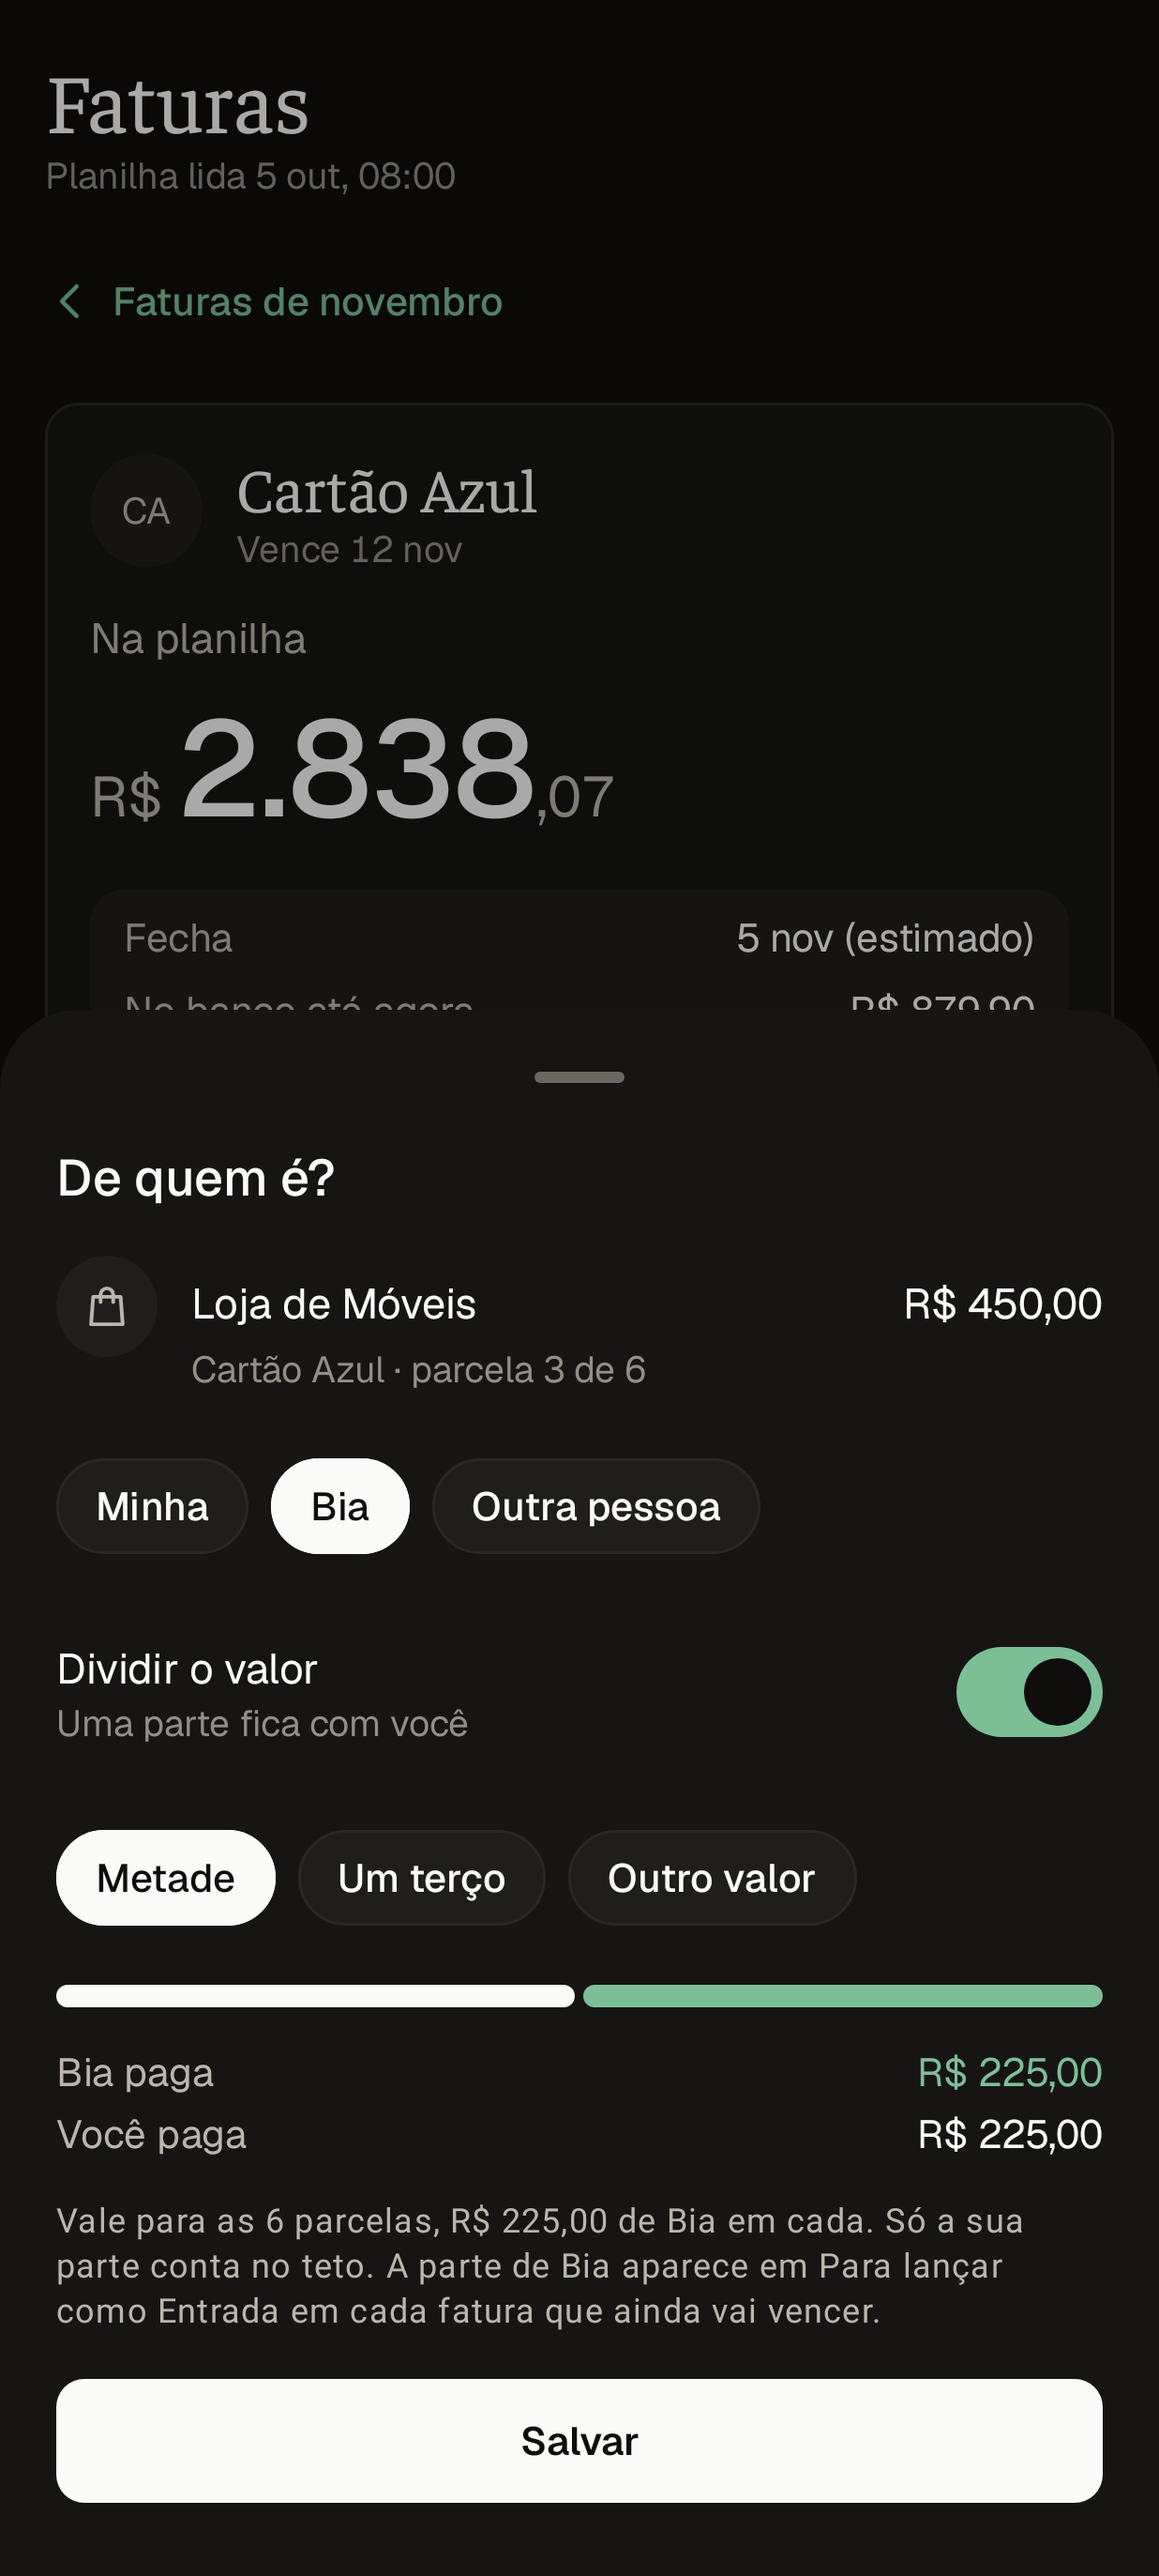
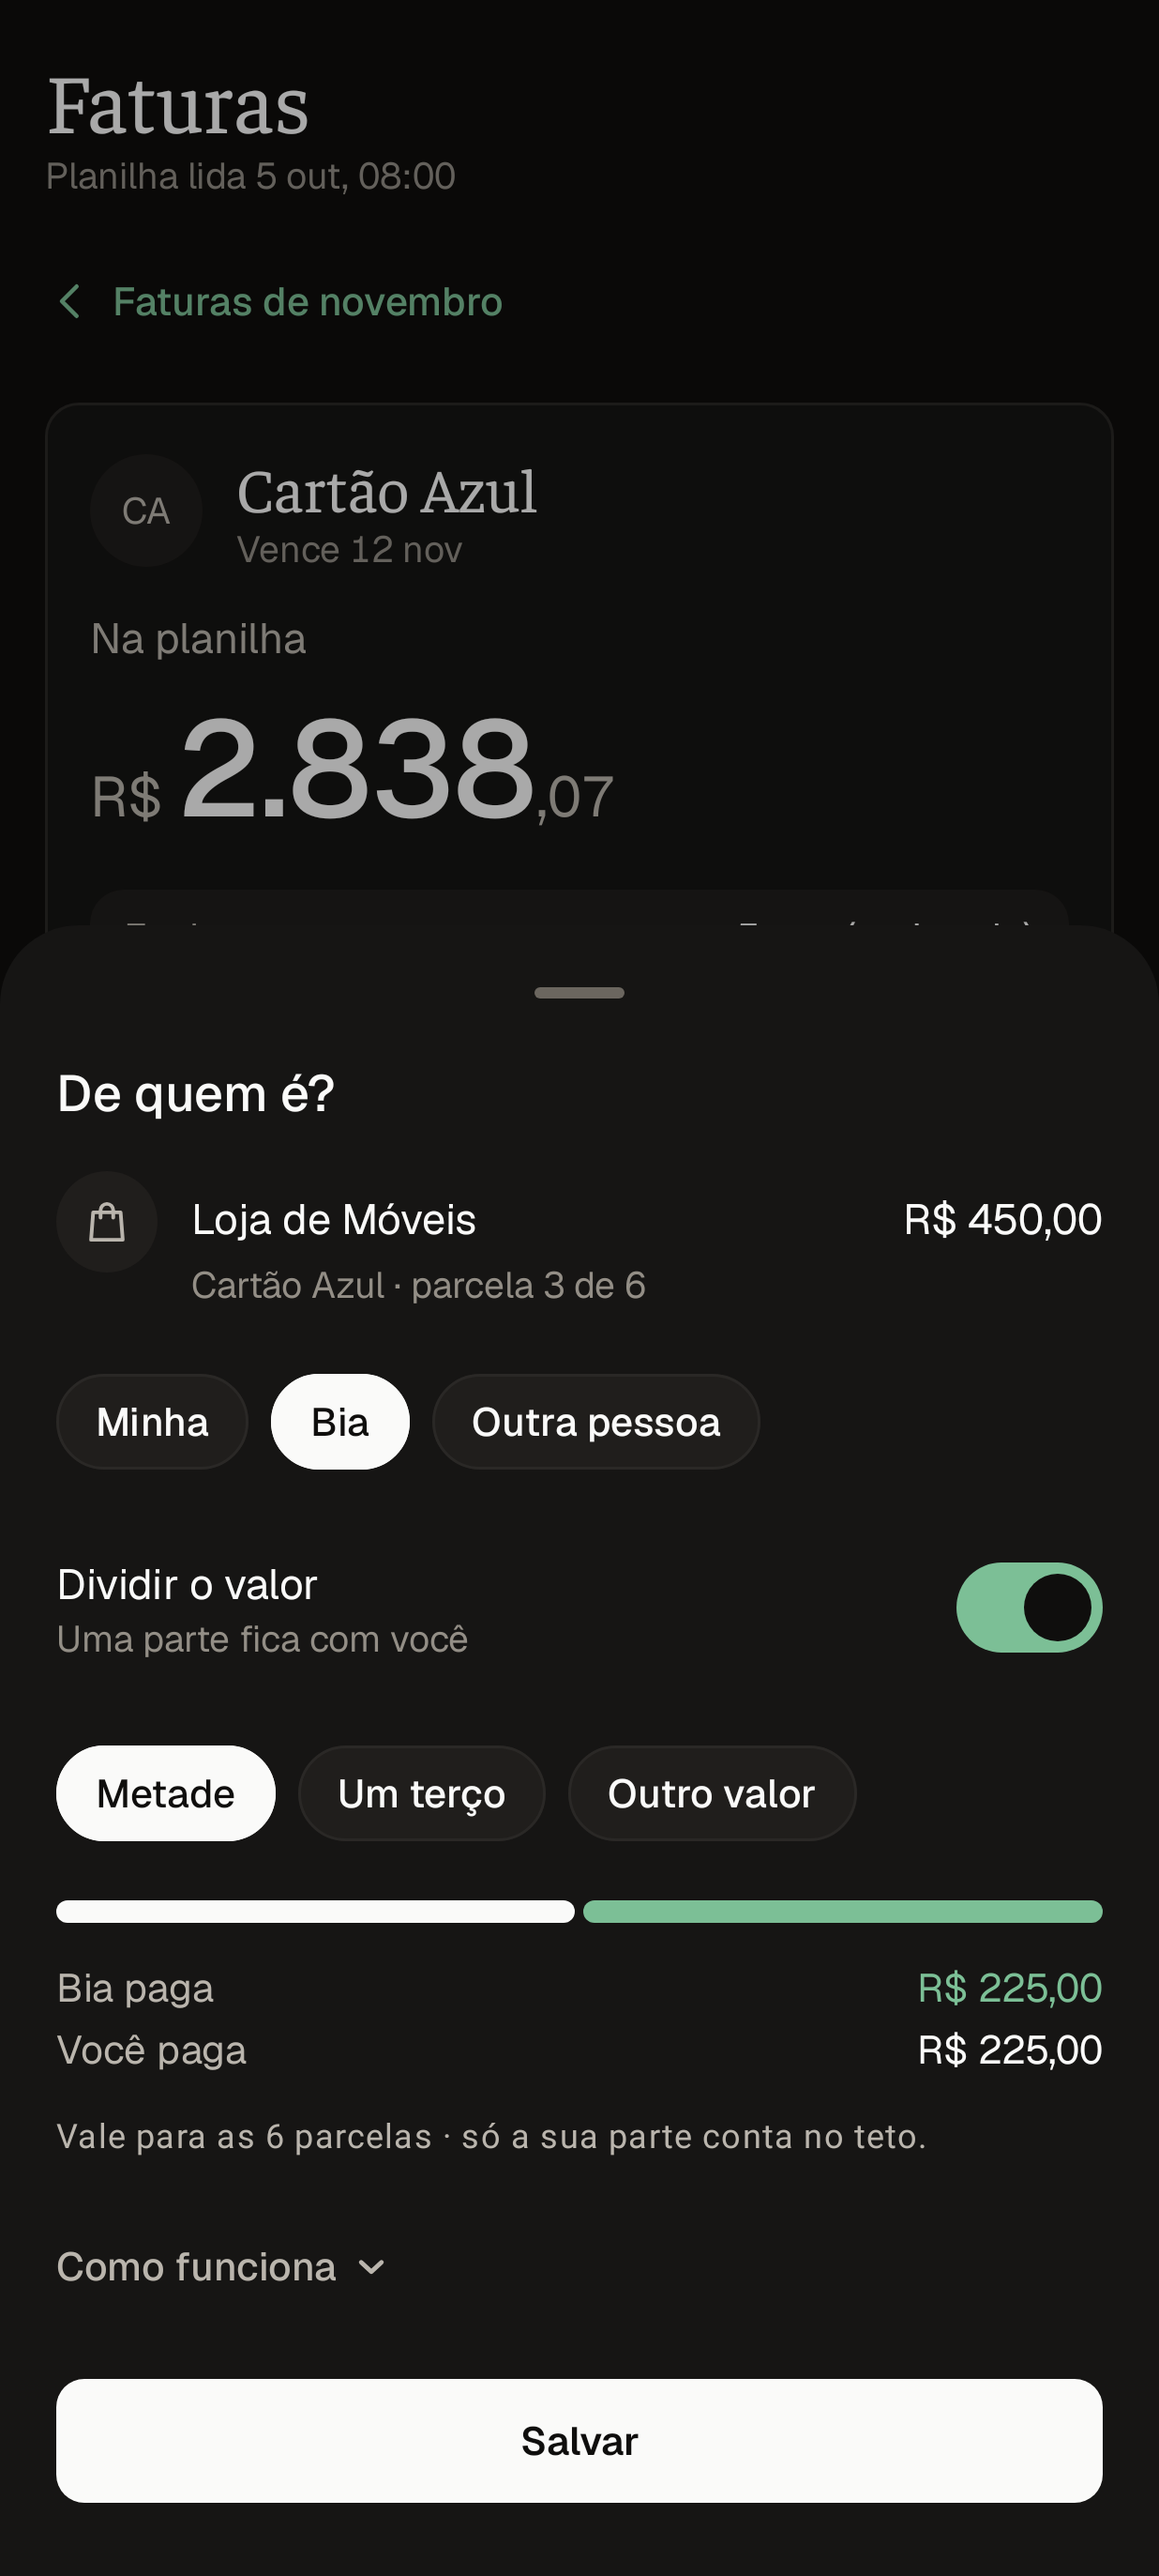
Faturas com menos texto: uma linha em "De quem é?" e na página da pessoa
O que a escolha faz cabe numa linha ("Vale para as 6 parcelas · só a sua
parte conta no teto"); quando a parte entra na planilha fica em "Como
funciona". Na página da pessoa, o aviso de que o Neko não manda nada sozinho
vai junto da mensagem, e a explicação de quando a parte entra vira uma linha.

Claude-Session: https://claude.ai/code/session_01ADeYYPo2XFbpPXavsTAhnJ

diff --git a/apps/neko/src/web/faturas/Owner.tsx b/apps/neko/src/web/faturas/Owner.tsx
@@ -1,7 +1,8 @@
 import { useMutation, useQueryClient } from "@tanstack/react-query";
 import { useId, useState } from "react";
 import { api } from "../api.ts";
-import { money, shortDate, toCents } from "../format.ts";
+import { capitalize, money, shortDate, toCents } from "../format.ts";
+import { IconChevron } from "../icons.tsx";
 
 /** How someone's part is picked: half, a third, or a value typed in. */
 type Mode = "half" | "third" | "other";
@@ -206,24 +207,33 @@ export const OwnerForm = ({
           )}
         </div>
       )}
+      {/* One line of what the choice does; when the other part enters the sheet, one tap away. */}
       <p className="hint owner-note">
         {who === null
           ? "Conta inteira no seu teto."
-          : [
-              plan && part !== null && person
-                ? `Vale para as ${installments} parcelas, ${money(part)} de ${person} em cada.`
-                : null,
-              monthly && person ? `Vale para todo mês em que cobrar ${money(amount)}.` : null,
-              split ? "Só a sua parte conta no teto." : "Fica fora do seu teto.",
-              person
-                ? later
-                  ? `A parte de ${person} entra na planilha quando o Pix cair.`
-                  : `A parte de ${person} aparece em Para lançar como Entrada ${due && !monthly && !plan ? `em ${shortDate(due)}, quando a fatura vence` : "em cada fatura que ainda vai vencer"}.`
-                : null,
-            ]
-              .filter(Boolean)
-              .join(" ")}
+          : capitalize(
+              [
+                plan ? `vale para as ${installments} parcelas` : null,
+                monthly ? `vale para todo mês em que cobrar ${money(amount)}` : null,
+                split ? "só a sua parte conta no teto" : "fica fora do seu teto",
+              ]
+                .filter(Boolean)
+                .join(" · "),
+            ) + "."}
       </p>
+      {person && (
+        <details className="formula owner-how">
+          <summary>
+            Como funciona
+            <IconChevron />
+          </summary>
+          <p>
+            {later
+              ? `A parte de ${person} entra na planilha quando o Pix cair, em Para lançar.`
+              : `A parte de ${person} aparece em Para lançar como Entrada ${due && !monthly && !plan ? `em ${shortDate(due)}, quando a fatura vence` : "em cada fatura que ainda vai vencer"}, e só vai para a planilha quando você tocar em Lançar.`}
+          </p>
+        </details>
+      )}
       <button type="submit" disabled={!valid || save.isPending}>
         {save.isPending ? "Salvando…" : "Salvar"}
       </button>

diff --git a/apps/android/app/src/main/kotlin/dev/johnlaff/neko/ui/OwnerForm.kt b/apps/android/app/src/main/kotlin/dev/johnlaff/neko/ui/OwnerForm.kt
@@ -191,21 +191,33 @@ internal fun OwnerForm(
                 }
             }
         }
+        // One line of what the choice does; when the other part enters the sheet, one tap away.
         Text(
             if (who == null) "Conta inteira no seu teto."
-            else listOfNotNull(
-                if (plan && part != null && person != null) "Vale para as $installments parcelas, ${money(part)} de $person em cada." else null,
-                if (monthly && person != null) "Vale para todo mês em que cobrar ${money(amount)}." else null,
-                if (split) "Só a sua parte conta no teto." else "Fica fora do seu teto.",
-                person?.let { p ->
-                    if (later) "A parte de $p entra na planilha quando o Pix cair."
-                    else "A parte de $p aparece em Para lançar como Entrada " +
-                        if (due != null && !monthly && !plan) "em ${shortDate(due)}, quando a fatura vence." else "em cada fatura que ainda vai vencer."
-                },
-            ).joinToString(" "),
+            else Format.capitalize(
+                listOfNotNull(
+                    if (plan) "vale para as $installments parcelas" else null,
+                    if (monthly) "vale para todo mês em que cobrar ${money(amount)}" else null,
+                    if (split) "só a sua parte conta no teto" else "fica fora do seu teto",
+                ).joinToString(" · "),
+            ) + ".",
             color = l.muted,
             style = MaterialTheme.typography.bodySmall,
         )
+        person?.let { p ->
+            var how by rememberSaveable { mutableStateOf(false) }
+            TextAction("Como funciona", { how = !how }, open = how)
+            Reveal(how) {
+                Text(
+                    if (later) "A parte de $p entra na planilha quando o Pix cair, em Para lançar."
+                    else "A parte de $p aparece em Para lançar como Entrada " +
+                        (if (due != null && !monthly && !plan) "em ${shortDate(due)}, quando a fatura vence" else "em cada fatura que ainda vai vencer") +
+                        ", e só vai para a planilha quando você tocar em Lançar.",
+                    color = l.muted,
+                    style = MaterialTheme.typography.bodySmall,
+                )
+            }
+        }
         Small(if (saving) "Salvando…" else "Salvar", filled = true, enabled = valid && !saving, modifier = Modifier.fillMaxWidth(), spinning = saving, onClick = submit)
         if (failed) Failed("Não salvou. Toque em Salvar de novo.")
     }

diff --git a/apps/android/app/src/main/kotlin/dev/johnlaff/neko/ui/PersonPage.kt b/apps/android/app/src/main/kotlin/dev/johnlaff/neko/ui/PersonPage.kt
@@ -129,13 +129,15 @@ internal fun PersonHead(o: Owed, month: String) {
         var preview by rememberSaveable { mutableStateOf(false) }
         TextAction("Ver a mensagem", { preview = !preview }, open = preview)
         Reveal(preview) {
-            Text(
-                messageOf(o, month),
-                style = MaterialTheme.typography.bodyMedium,
-                modifier = Modifier.fillMaxWidth().background(l.surface2, RoundedCornerShape(12.dp)).padding(horizontal = 14.dp, vertical = 12.dp),
-            )
+            Column(verticalArrangement = Arrangement.spacedBy(8.dp)) {
+                Text(
+                    messageOf(o, month),
+                    style = MaterialTheme.typography.bodyMedium,
+                    modifier = Modifier.fillMaxWidth().background(l.surface2, RoundedCornerShape(12.dp)).padding(horizontal = 14.dp, vertical = 12.dp),
+                )
+                Text("O Neko não manda nada sozinho: você escolhe para onde a mensagem vai.", color = l.muted, style = MaterialTheme.typography.bodySmall)
+            }
         }
-        Text("O Neko não manda nada sozinho: você escolhe para onde a mensagem vai.", color = l.muted, style = MaterialTheme.typography.bodySmall)
     }
 }
 
@@ -209,8 +211,8 @@ internal fun PersonLines(o: Owed, actions: FaturasActions, onPick: (OwedItem) ->
             }
         }
         Text(
-            if (onArrival) "Nada fica planejado: quando o Pix de ${o.person} cair, ele aparece em Para lançar como Entrada."
-            else "Cada parte aparece em Para lançar como Entrada no dia em que a fatura vence. Um Pix adiantado de ${o.person} diminui essa Entrada.",
+            if (onArrival) "Entra em Para lançar como Entrada quando o Pix de ${o.person} cair."
+            else "Entra em Para lançar como Entrada no vencimento de cada fatura.",
             color = l.muted,
             style = MaterialTheme.typography.bodySmall,
         )

diff --git a/apps/neko/src/web/faturas/Person.tsx b/apps/neko/src/web/faturas/Person.tsx
@@ -148,8 +148,8 @@ export const Person = ({
           <IconChevron />
         </summary>
         <pre className="message">{messageOf(o, month, money)}</pre>
+        <p>O Neko não manda nada sozinho: você escolhe para onde a mensagem vai.</p>
       </details>
-      <p className="hint">O Neko não manda nada sozinho: você escolhe para onde a mensagem vai.</p>
     </section>
   );
   const lines = (
@@ -225,8 +225,8 @@ export const Person = ({
       </fieldset>
       <p className="hint">
         {onArrival
-          ? `Nada fica planejado: quando o Pix de ${o.person} cair, ele aparece em Para lançar como Entrada.`
-          : `Cada parte aparece em Para lançar como Entrada no dia em que a fatura vence. Um Pix adiantado de ${o.person} diminui essa Entrada.`}
+          ? `Entra em Para lançar como Entrada quando o Pix de ${o.person} cair.`
+          : "Entra em Para lançar como Entrada no vencimento de cada fatura."}
       </p>
       {when.isError && (
         <p className="warn" role="alert">

diff --git a/apps/neko/e2e/smoke.spec.ts b/apps/neko/e2e/smoke.spec.ts
@@ -465,7 +465,7 @@ test("a card's page shows whose each purchase is, and splits one with another va
   await sheet.getByRole("radio", { name: "Outro valor" }).check();
   await sheet.getByRole("textbox", { name: /Bia paga/ }).fill("150");
   await expect(
-    sheet.getByText("Vale para as 6 parcelas, R$ 150,00 de Bia em cada.", { exact: false }),
+    sheet.getByText("Vale para as 6 parcelas · só a sua parte conta no teto."),
   ).toBeVisible();
   const sent = sentTo(page, "/api/banks/owner");
   await sheet.getByRole("button", { name: "Salvar" }).click();
